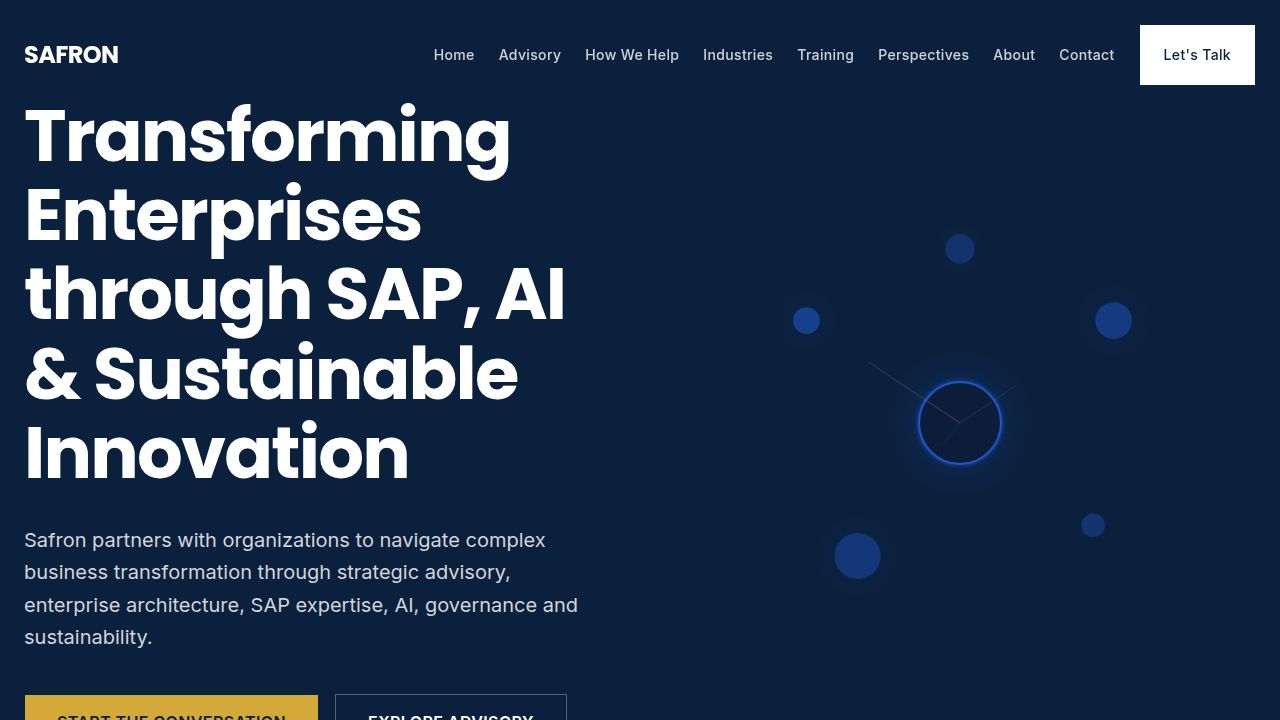
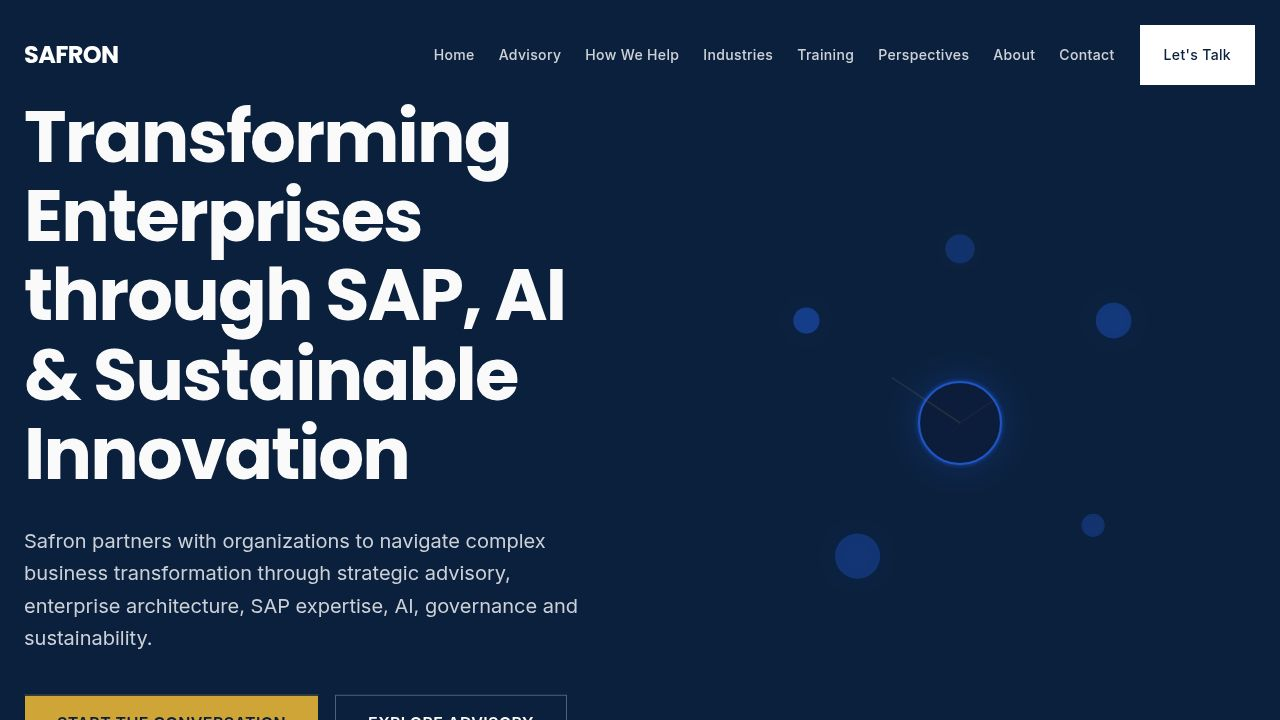
Add a contact form for users to easily book discovery calls
Implement a new client-side contact form component that generates a `mailto:` link for submitting inquiries, and update the footer email link.

Replit-Commit-Author: Agent
Replit-Commit-Session-Id: 3ba8b7ee-c1e3-4a86-b5ea-ebeaba23ed92
Replit-Commit-Checkpoint-Type: full_checkpoint
Replit-Commit-Event-Id: 22487457-bb01-46a7-8292-90e63d1a10df
Replit-Commit-Screenshot-Url: https://storage.googleapis.com/screenshot-production-us-central1/758a9485-3c1b-4281-9006-5fb9ee9797fd/3ba8b7ee-c1e3-4a86-b5ea-ebeaba23ed92/2voBK2z
Replit-Helium-Checkpoint-Created: true

diff --git a/artifacts/safron/src/components/ContactForm.tsx b/artifacts/safron/src/components/ContactForm.tsx
@@ -1,0 +1,162 @@
+import { useForm } from "react-hook-form";
+import { zodResolver } from "@hookform/resolvers/zod";
+import { z } from "zod";
+import { motion } from "framer-motion";
+import { Send } from "lucide-react";
+
+import { Button } from "@/components/ui/button";
+import { Input } from "@/components/ui/input";
+import { Textarea } from "@/components/ui/textarea";
+import {
+  Form,
+  FormControl,
+  FormField,
+  FormItem,
+  FormLabel,
+  FormMessage,
+} from "@/components/ui/form";
+import { useToast } from "@/hooks/use-toast";
+
+const CONTACT_EMAIL = "[email redacted]";
+
+const contactSchema = z.object({
+  name: z.string().trim().min(2, "Please enter your full name."),
+  email: z.string().trim().email("Please enter a valid email address."),
+  company: z.string().trim().optional(),
+  message: z.string().trim().min(10, "Please share a few more details."),
+});
+
+type ContactFormValues = z.infer<typeof contactSchema>;
+
+export function ContactForm() {
+  const { toast } = useToast();
+  const form = useForm<ContactFormValues>({
+    resolver: zodResolver(contactSchema),
+    defaultValues: { name: "", email: "", company: "", message: "" },
+  });
+
+  function onSubmit(values: ContactFormValues) {
+    const subject = `Discovery Call Request${values.company ? ` — ${values.company}` : ""}`;
+    const bodyLines = [
+      `Name: ${values.name}`,
+      `Email: ${values.email}`,
+      values.company ? `Company: ${values.company}` : null,
+      "",
+      values.message,
+    ].filter((line): line is string => line !== null);
+
+    const mailtoUrl = `mailto:${CONTACT_EMAIL}?subject=${encodeURIComponent(
+      subject
+    )}&body=${encodeURIComponent(bodyLines.join("\n"))}`;
+
+    window.location.href = mailtoUrl;
+
+    toast({
+      title: "Opening your email app",
+      description: `Your message to ${CONTACT_EMAIL} is ready to send.`,
+    });
+
+    form.reset();
+  }
+
+  return (
+    <motion.div
+      initial={{ opacity: 0, y: 20 }}
+      whileInView={{ opacity: 1, y: 0 }}
+      viewport={{ once: true }}
+      className="bg-white text-left p-8 md:p-10 max-w-xl mx-auto shadow-xl"
+    >
+      <Form {...form}>
+        <form onSubmit={form.handleSubmit(onSubmit)} className="space-y-6" noValidate>
+          <div className="grid grid-cols-1 md:grid-cols-2 gap-6">
+            <FormField
+              control={form.control}
+              name="name"
+              render={({ field }) => (
+                <FormItem>
+                  <FormLabel className="text-primary font-medium">Full Name</FormLabel>
+                  <FormControl>
+                    <Input
+                      placeholder="Jane Doe"
+                      className="rounded-none border-gray-300 h-12"
+                      data-testid="input-contact-name"
+                      {...field}
+                    />
+                  </FormControl>
+                  <FormMessage />
+                </FormItem>
+              )}
+            />
+            <FormField
+              control={form.control}
+              name="email"
+              render={({ field }) => (
+                <FormItem>
+                  <FormLabel className="text-primary font-medium">Work Email</FormLabel>
+                  <FormControl>
+                    <Input
+                      type="email"
+                      placeholder="[email redacted]"
+                      className="rounded-none border-gray-300 h-12"
+                      data-testid="input-contact-email"
+                      {...field}
+                    />
+                  </FormControl>
+                  <FormMessage />
+                </FormItem>
+              )}
+            />
+          </div>
+
+          <FormField
+            control={form.control}
+            name="company"
+            render={({ field }) => (
+              <FormItem>
+                <FormLabel className="text-primary font-medium">Company (optional)</FormLabel>
+                <FormControl>
+                  <Input
+                    placeholder="Acme Corporation"
+                    className="rounded-none border-gray-300 h-12"
+                    data-testid="input-contact-company"
+                    {...field}
+                  />
+                </FormControl>
+                <FormMessage />
+              </FormItem>
+            )}
+          />
+
+          <FormField
+            control={form.control}
+            name="message"
+            render={({ field }) => (
+              <FormItem>
+                <FormLabel className="text-primary font-medium">How can we help?</FormLabel>
+                <FormControl>
+                  <Textarea
+                    placeholder="Tell us about your transformation goals..."
+                    className="rounded-none border-gray-300 min-h-32 resize-none"
+                    data-testid="input-contact-message"
+                    {...field}
+                  />
+                </FormControl>
+                <FormMessage />
+              </FormItem>
+            )}
+          />
+
+          <Button
+            type="submit"
+            size="lg"
+            className="w-full rounded-none bg-accent text-primary hover:bg-primary hover:text-white h-14 text-base font-semibold tracking-wide uppercase transition-colors"
+            data-testid="button-contact-submit"
+          >
+            Book Discovery Call
+            <Send className="ml-2 w-4 h-4" />
+          </Button>
+        </form>
+      </Form>
+    </motion.div>
+  );
+}

diff --git a/artifacts/safron/src/pages/home.tsx b/artifacts/safron/src/pages/home.tsx
@@ -2,6 +2,7 @@ import { Navbar } from "@/components/layout/Navbar";
 import { Footer } from "@/components/layout/Footer";
 import { SEO } from "@/components/seo";
 import { Button } from "@/components/ui/button";
+import { ContactForm } from "@/components/ContactForm";
 import { ArrowRight, Search, Activity, PenTool, Zap, Repeat, Layers, Cpu, ShieldCheck, Globe, BookOpen, MoveRight, Database } from "lucide-react";
 import { Link } from "wouter";
 import { motion } from "framer-motion";
@@ -335,12 +336,15 @@ export default function Home() {
               initial={{ opacity: 0, scale: 0.95 }}
               whileInView={{ opacity: 1, scale: 1 }}
               viewport={{ once: true }}
+              className="mb-12"
             >
-              <h2 className="text-3xl md:text-5xl font-bold font-display text-white mb-8">Ready to Transform with Confidence?</h2>
-              <Button size="lg" asChild className="rounded-none bg-accent text-primary hover:bg-white hover:text-primary h-14 px-10 text-lg font-bold tracking-wide uppercase transition-colors">
-                <a href="mailto:[email redacted]">Book Discovery Call</a>
-              </Button>
+              <h2 className="text-3xl md:text-5xl font-bold font-display text-white mb-4">Ready to Transform with Confidence?</h2>
+              <p className="text-gray-300 text-lg max-w-xl mx-auto">
+                Tell us about your transformation goals and a Safron advisor will be in touch.
+              </p>
             </motion.div>
+
+            <ContactForm />
           </div>
         </section>
       </main>

diff --git a/artifacts/safron/src/components/layout/Footer.tsx b/artifacts/safron/src/components/layout/Footer.tsx
@@ -20,7 +20,7 @@ export function Footer() {
               <a href="#" className="w-10 h-10 rounded-full bg-white/10 flex items-center justify-center hover:bg-secondary hover:text-white transition-colors">
                 <Linkedin size={18} />
               </a>
-              <a href="mailto:[email redacted]" className="w-10 h-10 rounded-full bg-white/10 flex items-center justify-center hover:bg-secondary hover:text-white transition-colors">
+              <a href="mailto:[email redacted]" className="w-10 h-10 rounded-full bg-white/10 flex items-center justify-center hover:bg-secondary hover:text-white transition-colors">
                 <Mail size={18} />
               </a>
             </div>